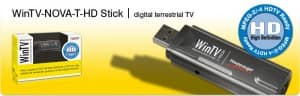
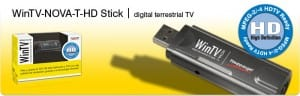
Trying a bit more quality for jpgs...

diff --git a/imagemin.js b/imagemin.js
@@ -3,10 +3,10 @@ const imageminJpegRecompress = require('imagemin-jpeg-recompress');
 
 imagemin(['assets/images-src/*.jpg'], 'assets/images', {
 	plugins: [
-		imageminJpegRecompress({'quality': 'low',
+		imageminJpegRecompress({'quality': 'high',
 			'accurate': true,
-			'min': 35,
-			'max': 40})
+			'min': 65,
+			'max': 80})
 	]
 }).then(() => {
 	console.log('Images optimized');
